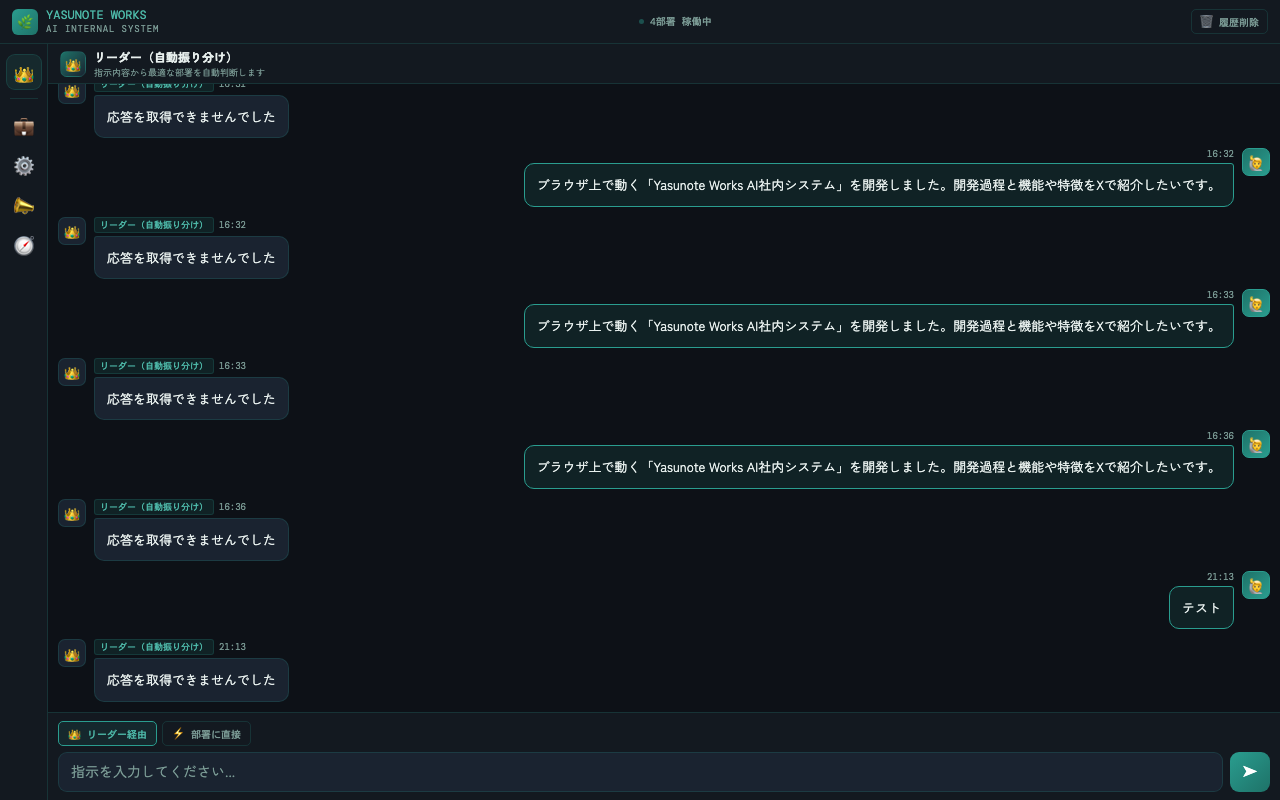
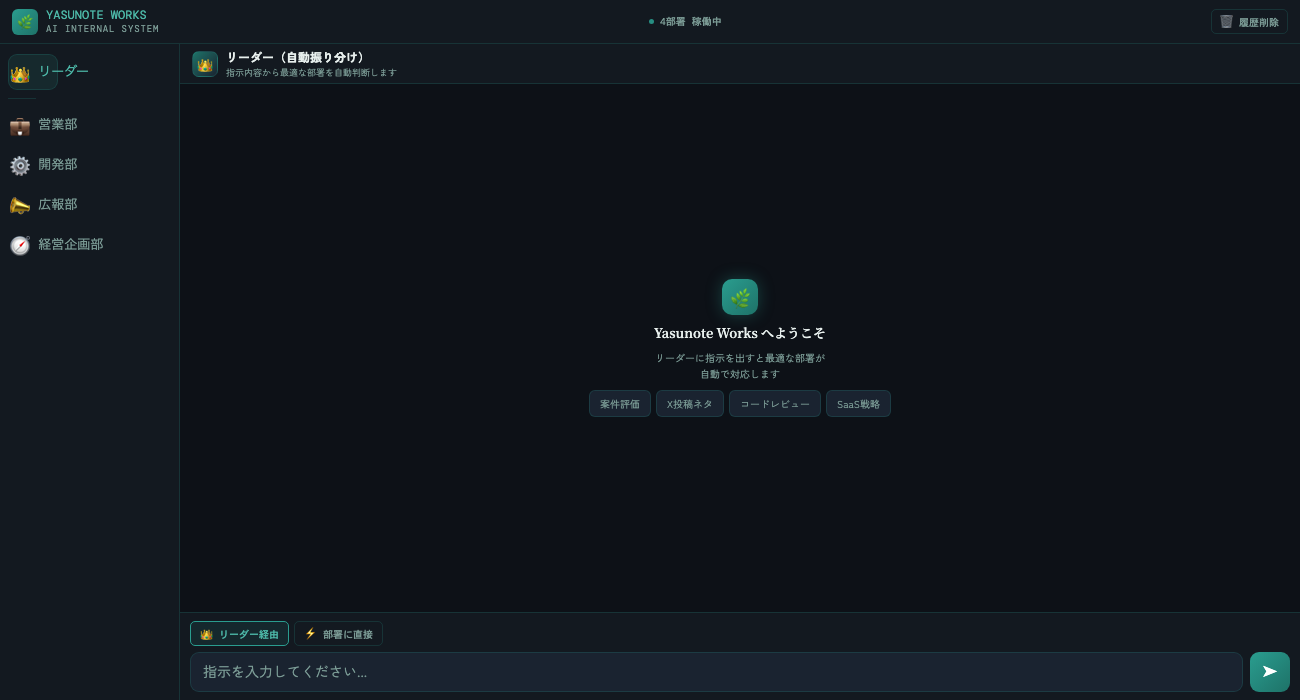
ポートフォリオ更新：スクショ差し替え・デモリンク追加
- シフトスケジューラー・AI社内システムのスクショを新しい画像に変更
- さくら総合病院・LUMIÈRE・AI社内システムのデモリンクを追加
- AI社内システムはウェルカム画面＋部署サイドバー表示のスクショに変更

diff --git a/index.html b/index.html
@@ -585,6 +585,7 @@
         <h3 class="portfolio-title">さくら総合病院 サイト</h3>
         <p class="portfolio-desc">診療科・医師紹介・アクセスを備えた病院向けコーポレートサイト。予約導線・診療時間ページを含むフルページ構成。</p>
         <div class="portfolio-links">
+          <a class="portfolio-link" href="https://gilvanianbird-arch.github.io/my-second-web-app/" target="_blank">デモを見る →</a>
         </div>
         <div class="stack-row">
           <span class="stack">HTML</span>
@@ -601,6 +602,7 @@
         <h3 class="portfolio-title">LUMIÈRE — 商品LP</h3>
         <p class="portfolio-desc">高級コスメブランドをイメージした商品LP。ダークトーンの洗練されたデザインと、スクロールアニメーションを実装。</p>
         <div class="portfolio-links">
+          <a class="portfolio-link" href="https://gilvanianbird-arch.github.io/portfolio-lp/" target="_blank">デモを見る →</a>
         </div>
         <div class="stack-row">
           <span class="stack">HTML</span>
@@ -617,6 +619,7 @@
         <h3 class="portfolio-title">AI社内システム</h3>
         <p class="portfolio-desc">ブラウザ上で動作する4部署対応のAIチャットシステム。部門別に自動振り分けするリーダーエージェントを搭載。</p>
         <div class="portfolio-links">
+          <a class="portfolio-link" href="https://claude.ai/public/artifacts/bf7926b5-8731-4b7d-a0f7-bbbeaa1735f7" target="_blank">デモを見る →</a>
         </div>
         <div class="stack-row">
           <span class="stack">HTML</span>
